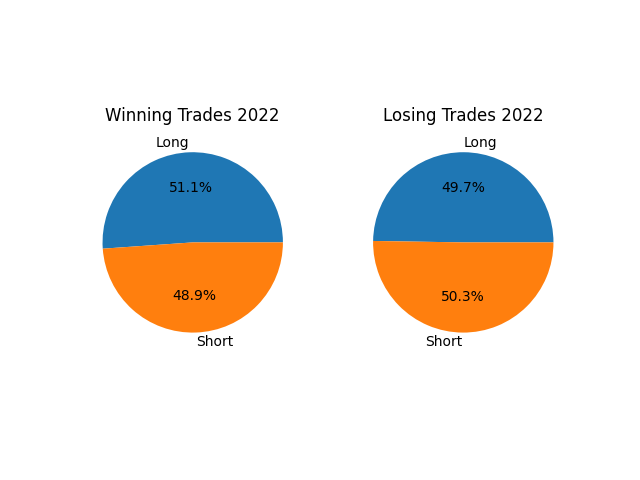
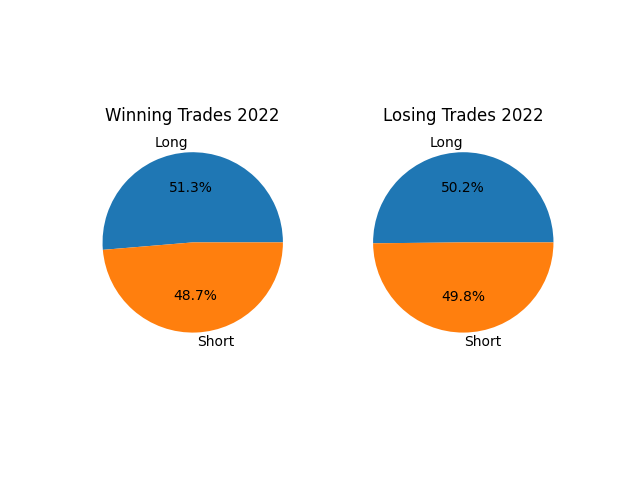
added a stop loss and it significantly improved results. Still doing more work to cutdown on losses and take less trades overall

diff --git a/src/util_bt.py b/src/util_bt.py
@@ -25,8 +25,9 @@ class Trade:
     end_i   : int # index of the end of the trade in the file
     type_    : int # -1 if shorting so profit calculations are correct
 
+    # Kraken has a 0.9% fee per transaction
     def percent_profit(self):
-        return (self.bought - self.sold)/self.bought * 100 * self.type_
+        return ((self.bought - self.sold)/self.bought * 100 * self.type_)
 
 def oneday_ATR(prev: Candle, curr: Candle):
     return max(
@@ -35,7 +36,11 @@ def oneday_ATR(prev: Candle, curr: Candle):
         (abs(curr.low_  - prev.close_))
     )
     
-def print_analysis(trades: list, year: int, contents, graphs: bool, strat=None):
+def print_analysis(trades: list, year: int, contents, show_graphs: bool, strat=None):
+    """
+    Gives a brief analysis of the trades. Can choose to show the graphs and save the output to a file
+    Returns the winners, losers as lists of trade objects 
+    """
     total = sum([
         trade.percent_profit() for trade in trades
     ])
@@ -51,10 +56,10 @@ def print_analysis(trades: list, year: int, contents, graphs: bool, strat=None):
 
     # show biggest win and loss
     winners.sort(key= lambda x: x.percent_profit(), reverse=True)
-    if graphs: show_trade(winners[0], contents)
+    if show_graphs: show_trade(winners[0], contents)
 
     losers.sort(key= lambda x: x.percent_profit())
-    if graphs: show_trade(losers[0], contents)
+    if show_graphs: show_trade(losers[0], contents)
 
     # Save winners and losers list while they still have trade objects
     ret = (winners, losers)
@@ -125,27 +130,30 @@ def analyze_trade_types(winners, losers, year: int, strat=None):
     if strat != None:
         plt.savefig(f"backtest_results/{strat}/{year}-Trade_Type_Analysis.png")
 
+    # ax[0].clear()
+    # ax[1].clear()
     # plt.show()
 
-def show_trade(trade: Trade, contents):
-    print("Type: ", end="")
-    print("long" if trade.type_ == IS_LONG else "short")
-    print(f"Profit: {trade.percent_profit()}")
+def show_trade(trade: Trade, contents, zoom: int = 5,):
+    """
+    Create a matplot of the trade
+    It will show (zoom)-number of candles before and after the trade
+    """
 
     candles = []
-    for i in range(trade.start_i + 5, trade.end_i - 5, -1):
+    for i in range(trade.start_i + zoom, trade.end_i - zoom, -1):
         line = contents[i]
         open_, high_, low_, close_ = float(line[3]), float(line[4]), float(line[5]), float(line[6])
         candles.append(Candle(open_, high_, low_, close_))
 
     prices = pd.DataFrame({
-        "open"  : [candle.open_  for candle in candles],
         "high"  : [candle.high_  for candle in candles],
         "low"   : [candle.low_   for candle in candles],
+        "open"  : [candle.open_  for candle in candles],
         "close" : [candle.close_ for candle in candles]
     })
-    green = prices[prices.close >= prices.open] # green candles
-    red   = prices[prices.close < prices.open] # red candles
+    green  = prices[prices.close >= prices.open] # green candles
+    red    = prices[prices.close < prices.open] # red candles
     w1, w2 = 0.4, 0.04 # width of thick part and width of extrema
 
     _, ax = plt.subplots()
@@ -160,12 +168,12 @@ def show_trade(trade: Trade, contents):
 
     ax.hlines(
         trade.bought,
-        xmin=5, xmax=5 + (trade.start_i - trade.end_i), 
+        xmin=zoom, xmax=zoom + (trade.start_i - trade.end_i), 
         label='bought', color='orange'
     )
     ax.hlines(
         trade.sold, 
-        xmin=5, xmax=5 + (trade.start_i - trade.end_i), 
+        xmin=zoom, xmax=zoom + (trade.start_i - trade.end_i), 
         label='sold', color='purple'
     )
 
@@ -173,7 +181,7 @@ def show_trade(trade: Trade, contents):
     below = trade.sold if trade.sold < trade.bought else trade.bought
     ax.add_patch(
         Rectangle(
-            (5, below), # start at the lowest left corner
+            (zoom, below), # start at the lowest left corner
             trade.start_i - trade.end_i, 
             above - below, 
             alpha=0.5,
@@ -187,9 +195,9 @@ def show_trade(trade: Trade, contents):
     plt.show()
 
 year_ranges = {
-    2018: (39379, 33843),
-    2019: (33842, 25083),
-    2020: (25082, 16299),
-    2021: (16298, 7539),
+    # 2018: (39379, 33843),
+    # 2019: (33842, 25083),
+    # 2020: (25082, 16299),
+    # 2021: (16298, 7539),
     2022: (7538, 0)
 }

diff --git a/src/TrendFollow_bt.py b/src/TrendFollow_bt.py
@@ -5,7 +5,7 @@ import pandas as pd
 
 SMOOTHING = 2
 
-def Trend_Follow_Backtest():
+def Trend_Follow_Backtest(show_graphs: bool, save_fig: bool, save_analysis: bool):
     """
     Test a simple EMA trend following strategy.
     When a shorter moving average crosses up a longer one, an uptrend should be starting. 
@@ -48,7 +48,7 @@ def Trend_Follow_Backtest():
                     short_EMA_pts = moving_pts[14:]
                     prev_sEMA = sum(short_EMA_pts)/sEMA_len
 
-                assert prev_sEMA != -1 and prev_lEMA != -1
+                assert prev_sEMA != -1 or prev_lEMA != -1
 
                 curr_lEMA = (close_ * (SMOOTHING / (1 + lEMA_len))) + prev_lEMA * (1 - (SMOOTHING / (1 + lEMA_len)))
                 curr_sEMA = (close_ * (SMOOTHING / (1 + sEMA_len))) + prev_sEMA * (1 - (SMOOTHING / (1 + sEMA_len)))
@@ -57,6 +57,45 @@ def Trend_Follow_Backtest():
                  # if this < 1 and it used to be > 1, sEMA just crossed down lEMA  --> go short, exit long
                 curr_deltaEMA = curr_sEMA / curr_lEMA
 
+                ##########################################################################################################
+                # STOP LOSS
+                ##########################################################################################################
+
+                if inLongPos:
+                    mock_trade = Trade(
+                        bought=longPosPrice,
+                        sold=close_,
+                        start_i=start_i,
+                        end_i=i,
+                        type_=IS_LONG
+                    )
+                    if mock_trade.percent_profit() < -3:
+                        # already lost enough, exit now
+                        trades.append(mock_trade)
+                        inLongPos = False
+                        prev_lEMA, prev_sEMA = curr_lEMA, curr_sEMA
+                        prev_deltaEMA = curr_deltaEMA
+                        continue
+
+                if inShortPos:
+                    mock_trade = Trade(
+                        bought=shortPosPrice,
+                        sold=close_,
+                        start_i=start_i,
+                        end_i=i,
+                        type_=IS_SHORT
+                    )
+                    if mock_trade.percent_profit() < -3:
+                        # already lost enough, exit now
+                        trades.append(mock_trade)
+                        inShortPos = False
+                        prev_lEMA, prev_sEMA = curr_lEMA, curr_sEMA
+                        prev_deltaEMA = curr_deltaEMA
+                        continue
+
+                ##########################################################################################################
+                # TRADING LOGIC
+                ##########################################################################################################
                 if not inLongPos and (prev_deltaEMA < 1 and curr_deltaEMA > 1):
                     # close short enter long
                     if inShortPos:
@@ -95,9 +134,20 @@ def Trend_Follow_Backtest():
 
                 prev_lEMA, prev_sEMA = curr_lEMA, curr_sEMA
                 prev_deltaEMA = curr_deltaEMA
+                ##########################################################################################################
+            
+            strat = None
+            if save_analysis: strat = "TrendFollow"
+            winners, losers = print_analysis(trades, year, contents, show_graphs, strat) # returns sorted lists
+            
+            if save_fig: strat = "TrendFollow"
+            else: strat = None # Need this line to ensure that strat goes back to None if !save_fig
+            analyze_trade_types(winners, losers, year, strat)
 
-            winners, losers = print_analysis(trades, year, contents, strat="TrendFollow", graphs=False)
-            # analyze_trade_types(winners, losers, year, strat="TrendFollow")
+
+
+            # for i in range(10):
+            #     show_trade(losers[i], contents, zoom=10)
 
             # prices = pd.DataFrame({
             #     "open"  : [candle.open_ for candle in candles],

diff --git a/src/CE_bt.py b/src/CE_bt.py
@@ -1,7 +1,7 @@
 import csv
 from util_bt import *
 
-def CE_Backtest():
+def CE_Backtest(show_graphs: bool, save_fig: bool, save_analysis: bool):
     """
     Test the chandeleir exit strategy with ATR length = 1, multiplier = 1.85
     """
@@ -42,8 +42,44 @@ def CE_Backtest():
                 if prev_candle.close_ < prev_ES:
                     curr_ES = min(curr_ES, prev_ES)
 
-                ##########################################################################
-                # TRADING LOGIC HERE
+                ##########################################################################################################
+                # STOP LOSS
+                ##########################################################################################################
+                if inLongPos:
+                    mock_trade = Trade(
+                        bought=longPosPrice,
+                        sold=close_,
+                        start_i=start_i,
+                        end_i=i,
+                        type_=IS_LONG
+                    )
+                    if mock_trade.percent_profit() < -3:
+                        # already lost enough, exit now
+                        trades.append(mock_trade)
+                        inLongPos = False
+                        prev_ES, prev_EL = curr_ES, curr_EL
+                        prev_candle = curr_candle
+                        continue
+
+                if inShortPos:
+                    mock_trade = Trade(
+                        bought=shortPosPrice,
+                        sold=close_,
+                        start_i=start_i,
+                        end_i=i,
+                        type_=IS_SHORT
+                    )
+                    if mock_trade.percent_profit() < -3:
+                        # already lost enough, exit now
+                        trades.append(mock_trade)
+                        inShortPos = False
+                        prev_ES, prev_EL = curr_ES, curr_EL
+                        prev_candle = curr_candle
+                        continue
+
+                ##########################################################################################################
+                # TRADING LOGIC
+                ##########################################################################################################
                 if not inLongPos and close_ > prev_ES:
                     # exit long FIRST then long bitcoin
                     if inShortPos: 
@@ -81,5 +117,16 @@ def CE_Backtest():
                 prev_ES, prev_EL = curr_ES, curr_EL
                 prev_candle = curr_candle
 
-            winners, losers = print_analysis(trades, year, contents, graphs=False, strat="CE")
-            # analyze_trade_types(winners, losers, year, "CE")
+            strat = None
+            if save_analysis: strat = "CE"
+            winners, losers = print_analysis(trades, year, contents, show_graphs, strat)
+            
+            # if save_fig: strat = "CE"
+            # else: strat = None # Need this line to ensure that strat goes back to None if !save_fig
+            # analyze_trade_types(winners, losers, year, strat)
+
+            losers = losers[::-1]
+            for i in range(10):
+                # show_trade(winners[i], contents, zoom=10)
+                show_trade(losers[i], contents, zoom=10)
+            

diff --git a/src/main.py b/src/main.py
@@ -2,8 +2,8 @@ from CE_bt import CE_Backtest
 from TrendFollow_bt import Trend_Follow_Backtest
 
 if __name__ == '__main__':
-    CE_Backtest()
-    # Trend_Follow_Backtest()
+    CE_Backtest(show_graphs=False, save_fig=False, save_analysis=False)
+    # Trend_Follow_Backtest(show_graphs=False, save_fig=False, save_analysis=False)
     
 
 # ATR = // greatest of curr high - curr low, |curr high - prev close|, |curr low - prev close|
